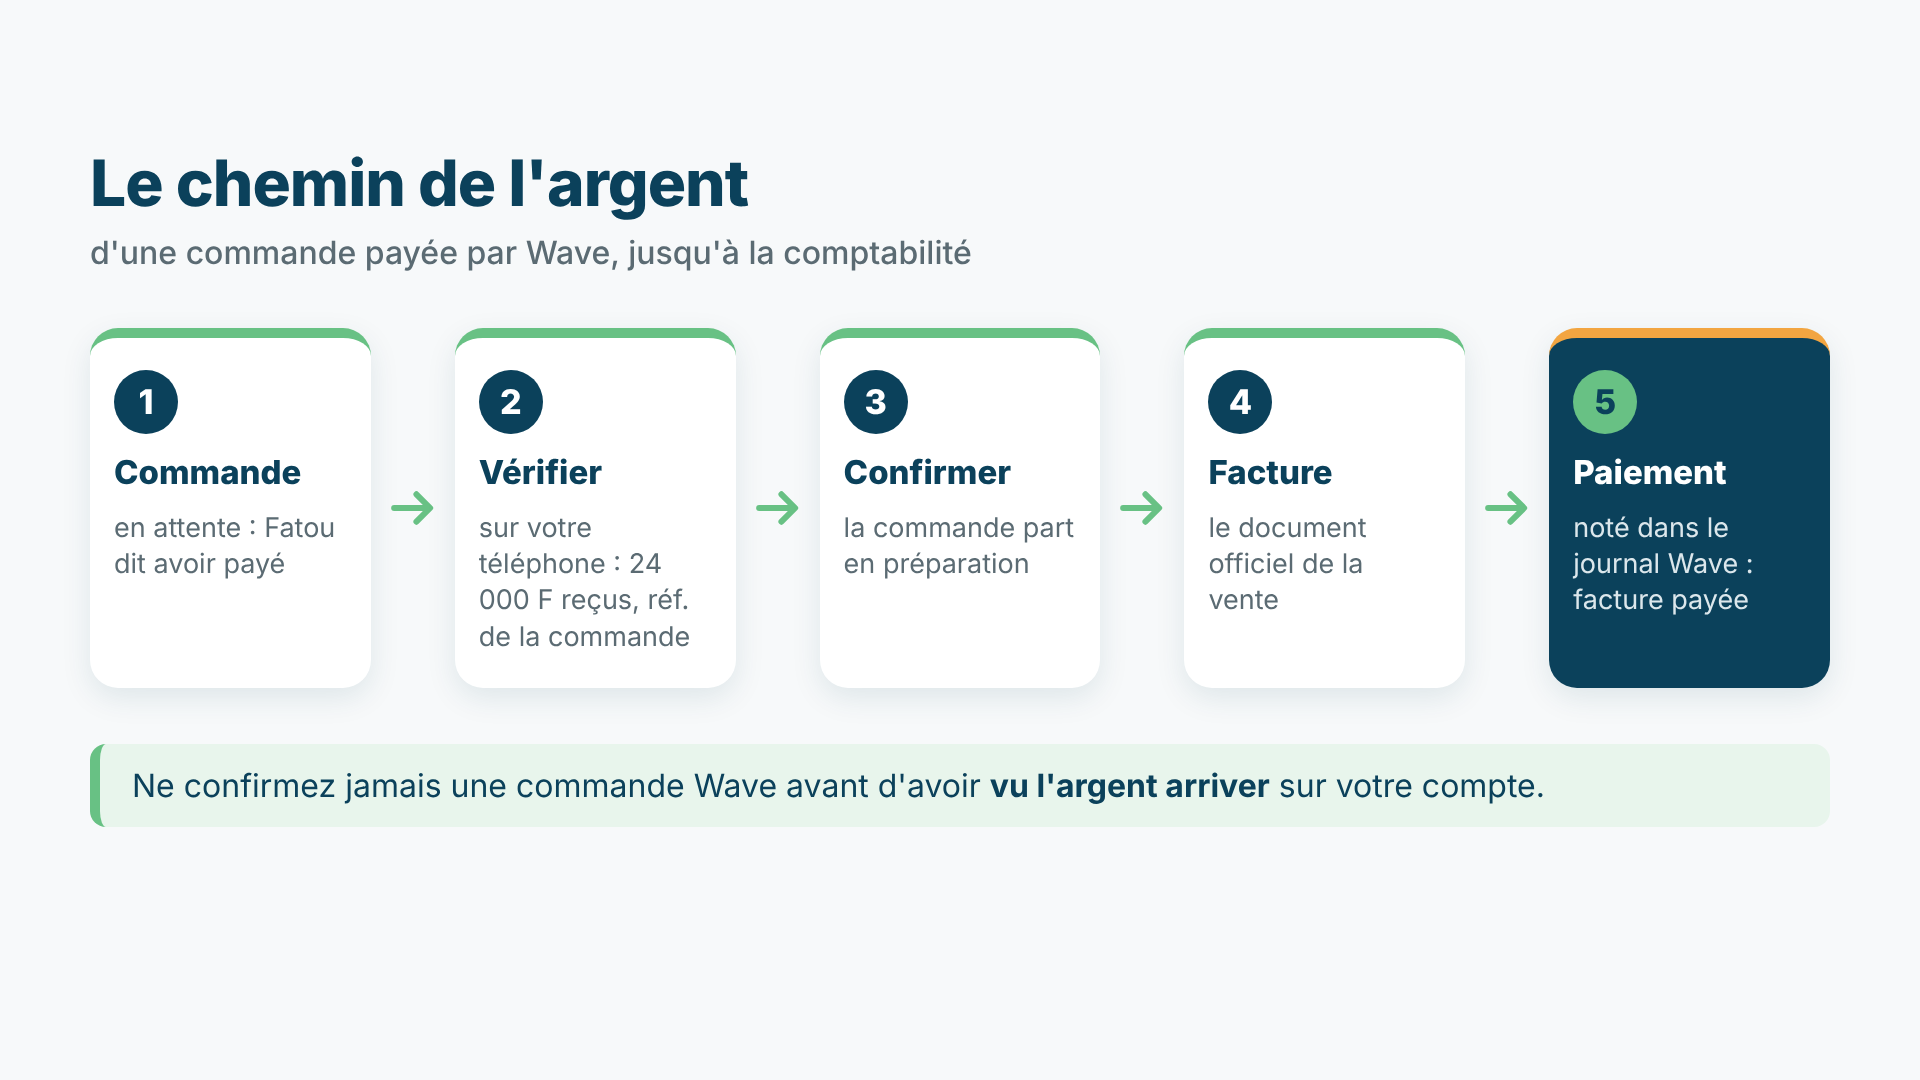
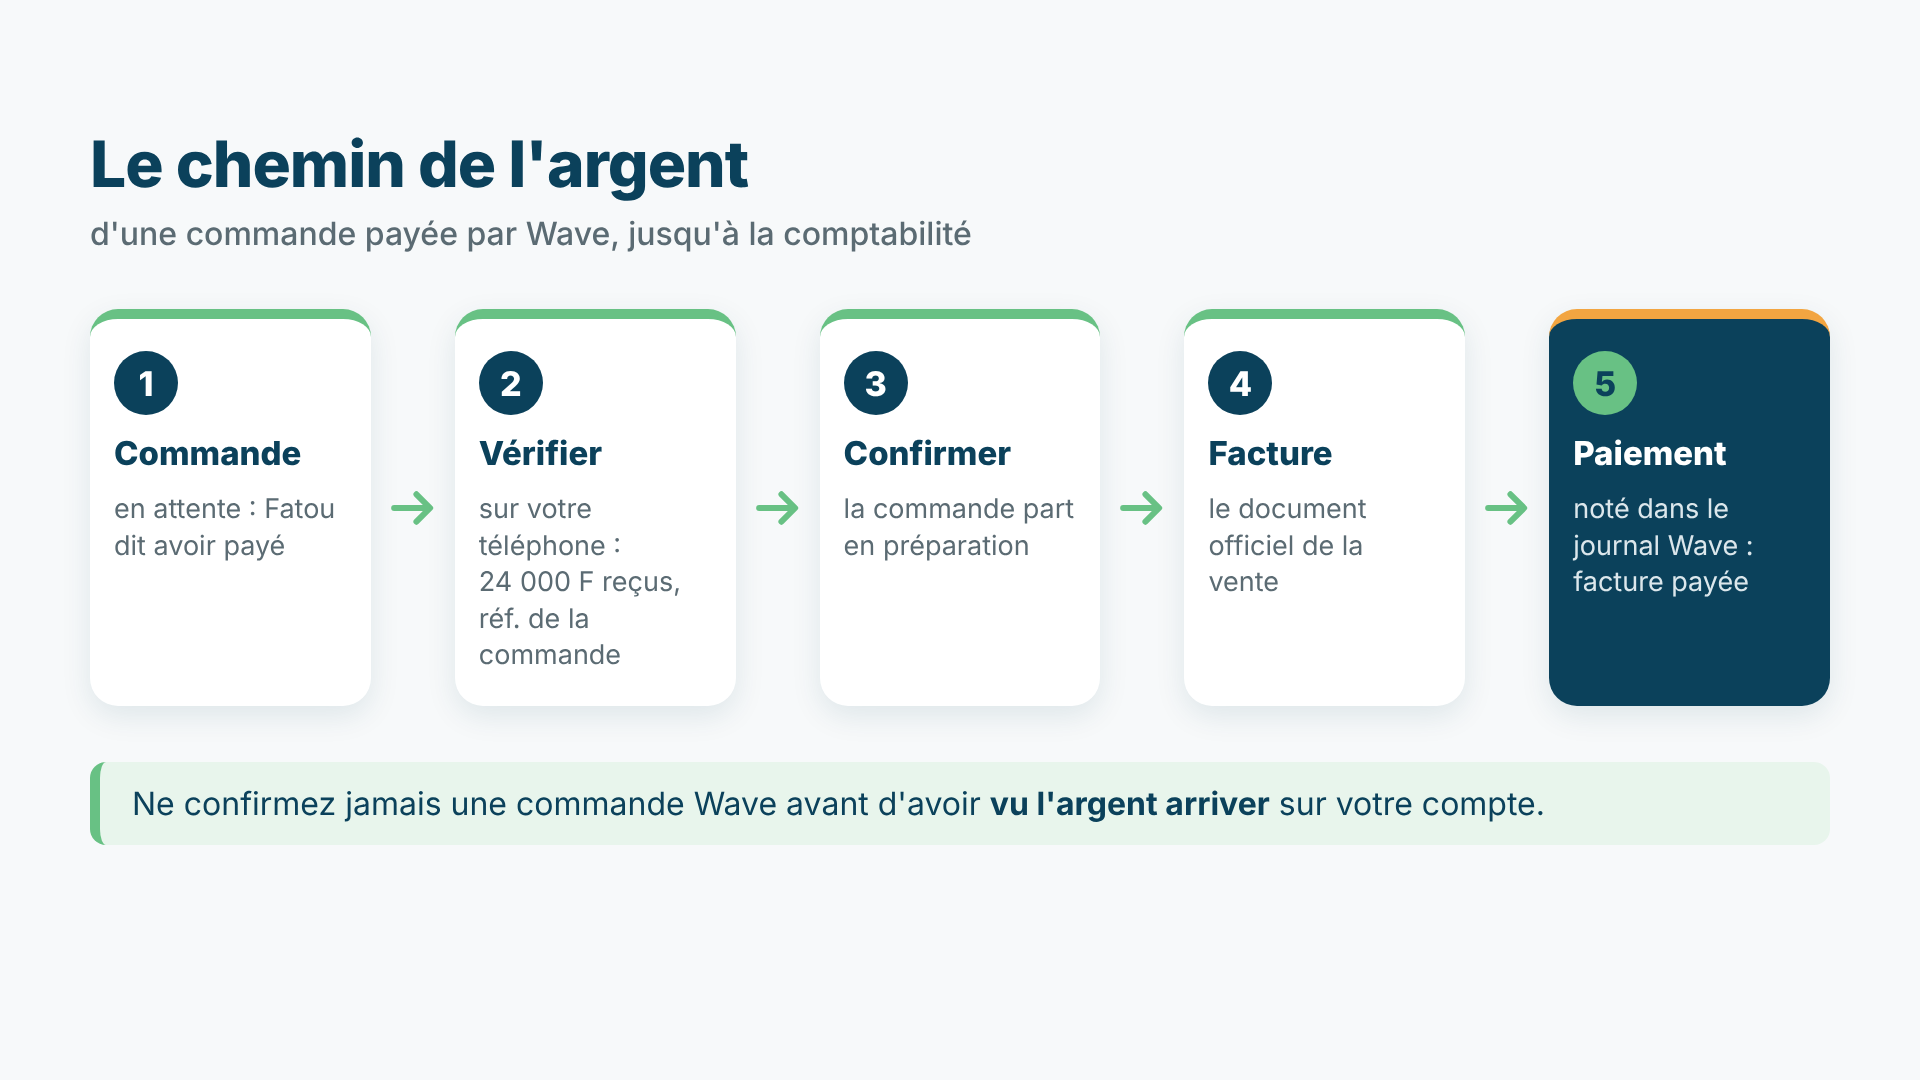
EB-09 : schéma, montant sur une ligne
Claude-Session: https://claude.ai/code/session_01UGUGncgeJJgD4qXndpsEMn

diff --git a/formations/e-business/images/eb-09-chemin.html b/formations/e-business/images/eb-09-chemin.html
@@ -3,7 +3,7 @@
 <h1>Le chemin de l'argent<small>d'une commande payée par Wave, jusqu'à la comptabilité</small></h1>
 <div class="rangee">
   <div class="carte"><div class="num">1</div><h2>Commande</h2><p>en attente : Fatou dit avoir payé</p></div><svg class="fleche" viewBox="0 0 56 56"><path d="M6 28h40M32 12l16 16-16 16" fill="none" stroke="currentColor" stroke-width="7" stroke-linecap="round" stroke-linejoin="round"/></svg>
-  <div class="carte"><div class="num">2</div><h2>Vérifier</h2><p>sur votre téléphone : 24 000 F reçus, réf. de la commande</p></div><svg class="fleche" viewBox="0 0 56 56"><path d="M6 28h40M32 12l16 16-16 16" fill="none" stroke="currentColor" stroke-width="7" stroke-linecap="round" stroke-linejoin="round"/></svg>
+  <div class="carte"><div class="num">2</div><h2>Vérifier</h2><p>sur votre téléphone : 24&nbsp;000&nbsp;F reçus, réf. de la commande</p></div><svg class="fleche" viewBox="0 0 56 56"><path d="M6 28h40M32 12l16 16-16 16" fill="none" stroke="currentColor" stroke-width="7" stroke-linecap="round" stroke-linejoin="round"/></svg>
   <div class="carte"><div class="num">3</div><h2>Confirmer</h2><p>la commande part en préparation</p></div><svg class="fleche" viewBox="0 0 56 56"><path d="M6 28h40M32 12l16 16-16 16" fill="none" stroke="currentColor" stroke-width="7" stroke-linecap="round" stroke-linejoin="round"/></svg>
   <div class="carte"><div class="num">4</div><h2>Facture</h2><p>le document officiel de la vente</p></div><svg class="fleche" viewBox="0 0 56 56"><path d="M6 28h40M32 12l16 16-16 16" fill="none" stroke="currentColor" stroke-width="7" stroke-linecap="round" stroke-linejoin="round"/></svg>
   <div class="carte forte"><div class="num">5</div><h2>Paiement</h2><p>noté dans le journal Wave : facture payée</p></div>
